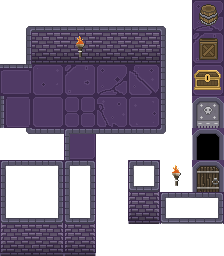
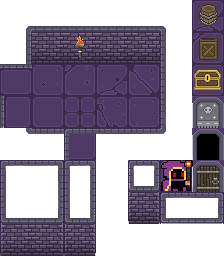
Boss

diff --git a/main.c b/main.c
@@ -150,6 +150,15 @@ int main(void)
 		// ------ Diálogos ------
 		dialogHub(ptr, ptrv, ptrm, ptrm->CountDialogo);
 
+		// Boss sumindo e aparecendo
+		if (ptrm->CountDialogo == 5) {
+			ptr->map[10][14] = 13;
+			ptr->map = geraMapas(3);
+		}
+		else if (ptr->escolhaMapa == 3){
+			ptr->map[10][14] = 55;
+		}
+
 		al_flip_display();
 		al_clear_to_color(al_map_rgb(0, 0, 0));
 	}

diff --git a/Minigames.h b/Minigames.h
@@ -133,7 +133,6 @@ void minigame2(vida* ptrv) {
 		al_draw_bitmap(image, 100, 40, 0);
 		al_flip_display();
 	}
-
 	al_destroy_bitmap(image);
 	al_destroy_event_queue(event_queue);
 }
@@ -218,7 +217,6 @@ int boss(mapa* ptr, vida* ptrv) {
 		vidaAtual(ptrv->vida, true);
 		al_flip_display();
 	}
-
 	al_destroy_bitmap(image);
 	al_destroy_event_queue(event_queue);
 }
